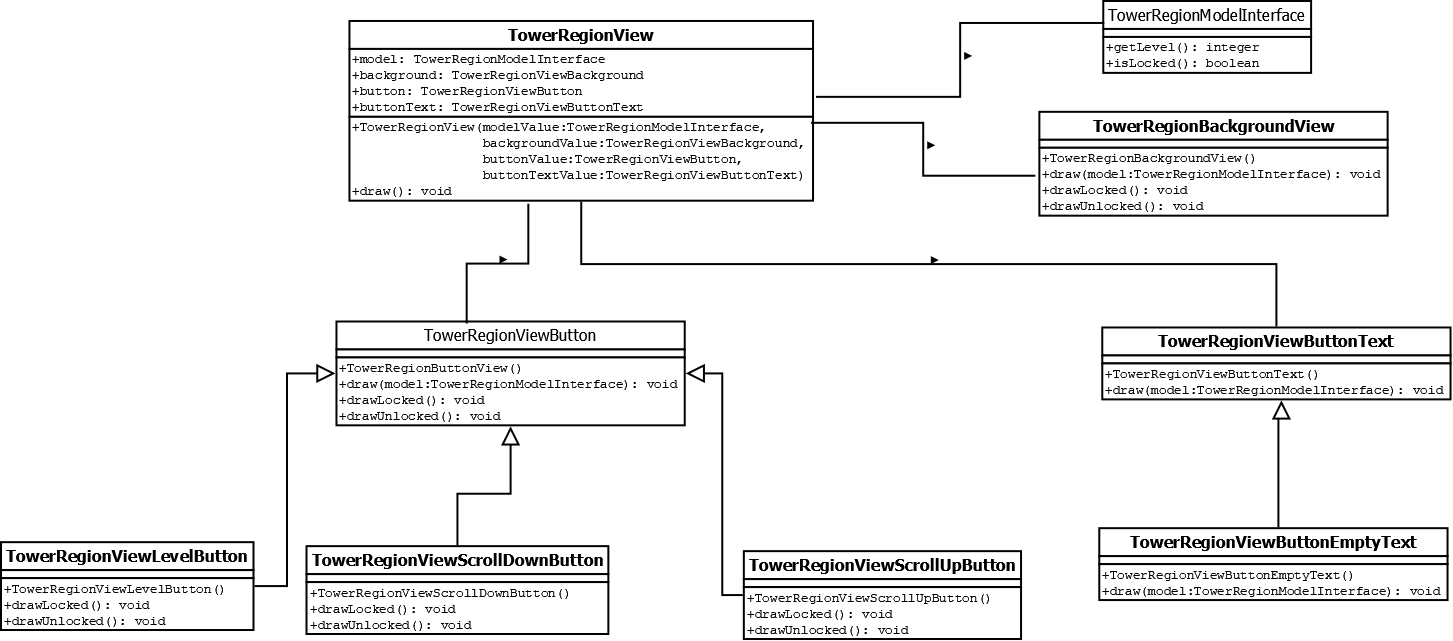
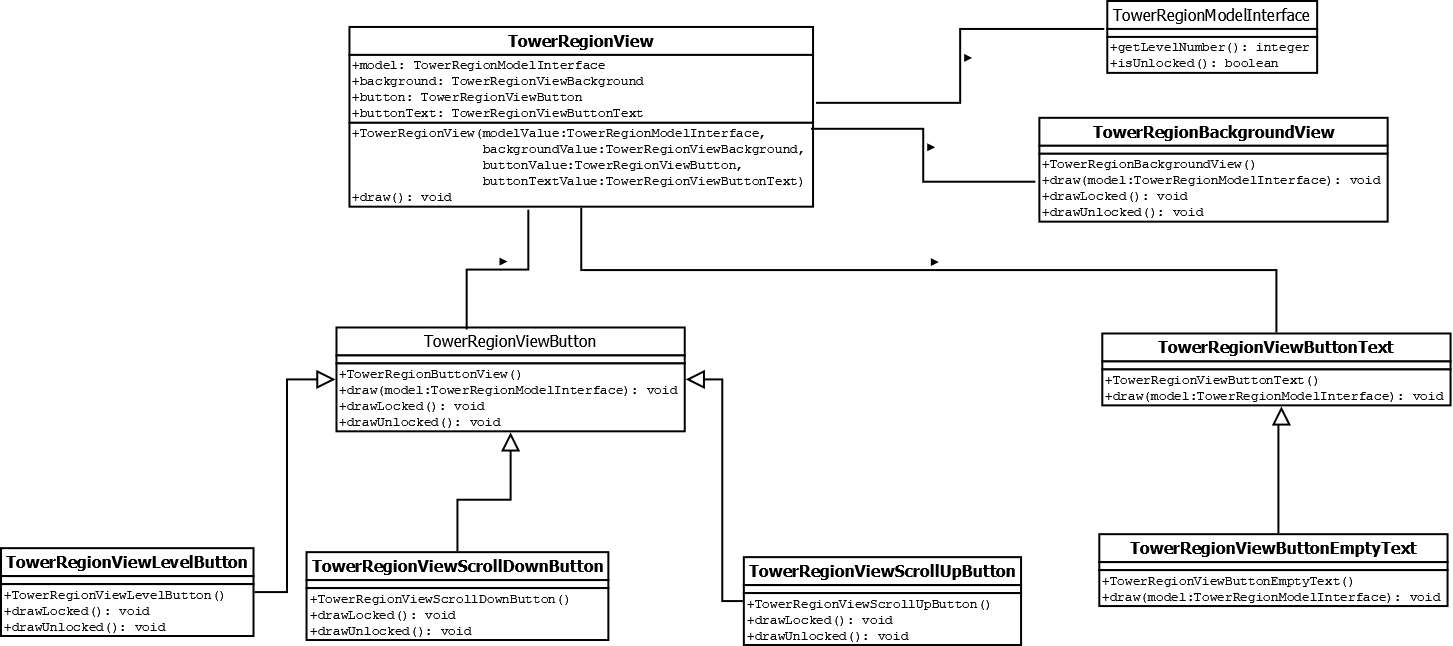
Add Level Selection model documentation and diagrams

diff --git a/models/level/selection/LevelSelector.md b/models/level/selection/LevelSelector.md
@@ -1,0 +1,23 @@
+# LevelSelector
+
+## Summary
+Manages the `Level` objects in the context of which one is selected, which ones are unlocked, and what level information the region models should be retrieving.
+
+## Diagram
+<center>
+!["LevelSelector UML Diagram"](../../../images/models/level/selection/LevelSelector.png "LevelSelector UML Diagram")
+</center>
+
+## Attributes
+* **levels** (Level[]): The levels in the game
+* **regionIndex** (integer): the index of the `levels` collection attribute that `LevelRegion` objects should start getting `Level` objects from.
+* **unlockedIndex** (integer): the index of the `levels` collection of the maximum level that the player has unlocked. All levels before that index are also considered to be unlocked. All levels after that index are considered to be locked.
+
+## Constructors
+* **LevelSelector(levelsValue (Level[]), regionIndexValue (integer), unlockedIndexValue (integer))**: constructs a `LevelSelector` object with the `levels` attribute set to `levelsValue`, and the `regionIndex` attribute set to `regionIndexValue` (which has a default value of `0`), and the `unlockedIndex` attribute set to `unlockedIndexValue` (which has a default value of `0`).
+
+## Methods
+* **getRegionIndex()** (integer): returns the value of the `regionIndex` attribute.
+* **getRegionLevelNumber(offset (integer))** (Level): returns `this.levels[this.regionIndex + offset].getNumber()`. The `offset` parameter has a default value of `0`
+* **isRegionLevelUnlocked(offset (integer))** (boolean): returns `true` if `this.regionIndex + offset <= this.unlockedIndex`; else returns `false`.
+* **moveRegionIndex(indexDisplacement (integer))** (void): changes `regionIndex` by the passed in `indexDisplacement` value. If `indexDisplacement` is positive, then `regionIndex` is increased; otherwise it is decreased.

diff --git a/models/level/selection/LevelSelectionRegion.md b/models/level/selection/LevelSelectionRegion.md
@@ -1,0 +1,25 @@
+# LevelSelectionRegion
+
+## Summary
+Works with the `LevelSelector` object in order to get the appropriate model values to the `TowerRegionView`. Implements the `TowerRegionModelInterface`
+
+## Diagram
+<center>
+!["LevelSelectionRegion UML Diagram"](../../../images/models/level/selection/LevelSelectionRegion.png "LevelSelectionRegion UML Diagram")
+</center>
+
+## Constants
+* **NUMBER_OF_REGIONS** (integer): the number of region objects that are being used in the game. Used for scrolling.
+
+## Attributes
+* **levelSelector** (LevelSelector): a reference to `LevelSelector` which manages the information about whether the `Level` corresponding to this region is locked and what its number is.
+* **offset** (integer): a value used to tell `LevelSelector` which `Level` we are interested in.
+
+## Constructors
+* **LevelSelectionRegion(levelSelectorValue (LevelSelector), offsetValue (integer))**: constructs a `LevelSelectionRegion` object with the `levelSelector` attribute set to `levelSelectorValue`, and the `offset` attribute set to `offsetValue`.
+
+## Methods
+* **getLevelNumber()** (integer): returns the level number corresponding to this region. This is computed using `this.levelSelector.getRegionLevelNumber(this.offset)`.
+* **isUnlocked()** (boolean): returns `true` if this region has been unlocked by the player; else returns `false`. This is computed using `this.levelSelector.isRegionLevelUnlocked(this.offset)`.
+* **scrollDown()** (void): Calls `this.levelSelector.moveRegionIndex(-this.NUMBER_OF_REGIONS)` in order to display the previous sequence of `Levels`.
+* **scrollUp()** (void): Calls `this.levelSelector.moveRegionIndex(this.NUMBER_OF_REGIONS)` in order to display the next sequence of `Levels`.

diff --git a/views/region/button/TowerRegionViewButton.md b/views/region/button/TowerRegionViewButton.md
@@ -13,6 +13,6 @@ Represents the button drawn in a tower region.
 * ***This is an abstract class.***
 
 ## Methods
-* **draw(model(TowerRegionModelInterface))** (void): calls `drawLocked()` if `model.isLocked()` returns true; otherwise calls `drawUnlocked()`; however if `model.getLevel()` is less than `1` then nothing is drawn.
+* **draw(model(TowerRegionModelInterface))** (void): calls `drawUnlocked()` if `model.isUnlocked()` returns true; otherwise calls `drawLocked()`; however if `model.getLevelNumber()` is less than `1` then nothing is drawn.
 * **drawLocked()** (void): *(abstract method)* draws a shaded button.
 * **drawUnlocked()** (void): *(abstract method)* draws an unshaded button.

diff --git a/views/region/TowerRegionViewBackground.md b/views/region/TowerRegionViewBackground.md
@@ -12,6 +12,6 @@ Represents the shaded or unshaded area drawn behind tower buttons.
 * **TowerRegionBackgroundView()**: constructs a `TowerRegionBackgroundView` object.
 
 ## Methods
-* **draw(model (TowerRegionModelInterface))** (void): if `model.isLocked()` returns `true` then calls `drawLocked()`; else calls `drawUnlocked()`
+* **draw(model (TowerRegionModelInterface))** (void): if `model.isUnlocked()` returns `true` then calls `drawUnlocked()`; else calls `drawLocked()`
 * **drawLocked()** (void): draws a shaded background.
 * **drawUnlocked()** (void): draws an unshaded background.

diff --git a/models/level/Level.md b/models/level/Level.md
@@ -1,0 +1,18 @@
+# Level
+
+## Summary
+Stores the information relevant to a particular level of the game.
+
+## Diagram
+<center>
+!["Level UML Diagram"](../../images/models/level/Level.png "Level UML Diagram")
+</center>
+
+## Attributes
+* **number** (integer): represents which level this is and where it falls in the order of the game
+
+## Constructors
+* **Level(numberValue)**: constructs a `Level` object with the `number` attribute set to `numberValue`.
+
+## Methods
+* **getNumber()** (integer): returns the `number` attribute's value.

diff --git a/views/region/TowerRegionModelInterface.md b/views/region/TowerRegionModelInterface.md
@@ -16,5 +16,5 @@ Hides the information about the model except for that needed by the TowerRegionV
 * ***This is an interface.***
 
 ## Methods
-* **getLevel()** (integer): returns the level number corresponding to this region.
-* **isLocked()** (boolean): returns `true` if this region has been unlocked by the player; else returns `false`.
+* **getLevelNumber()** (integer): returns the level number corresponding to this region.
+* **isUnlocked()** (boolean): returns `true` if this region has been unlocked by the player; else returns `false`.

diff --git a/views/region/button-text/TowerRegionViewButtonText.md b/views/region/button-text/TowerRegionViewButtonText.md
@@ -12,4 +12,4 @@ Represents the text displayed on the button drawn in a tower region.
 * **TowerRegionViewButtonText()**: constructs a `TowerRegionViewButtonText` object.
 
 ## Methods
-* **draw(model (TowerRegionModelInterface))** (void): draws "Level {0}" where {0} is `model.getLevel()` in string form.
+* **draw(model (TowerRegionModelInterface))** (void): draws "Level {0}" where {0} is `model.getLevelNumber()` in string form.

diff --git a/models/level/selection/LevelSelection-Class-Diagram.md b/models/level/selection/LevelSelection-Class-Diagram.md
@@ -1,0 +1,9 @@
+# TowerRegionView
+
+## Summary
+Classes involved in selecting a level
+
+## Diagram
+<center>
+!["Level Selection Class Diagram"](../../../images/models/level/selection/LevelSelection-Class-Diagram.png "Level Selection Class Diagram")
+</center>
